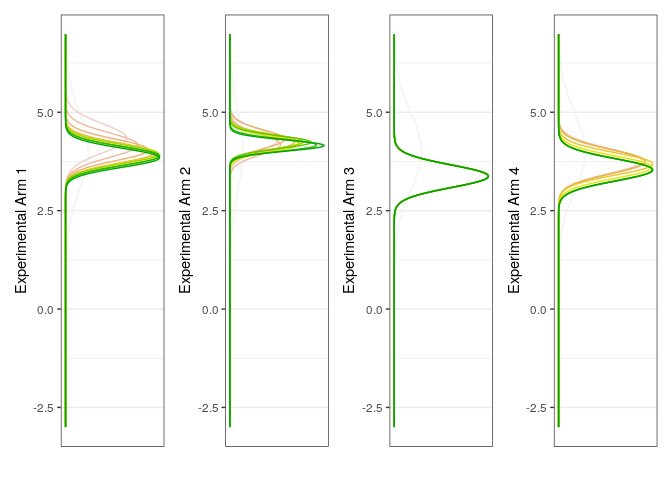
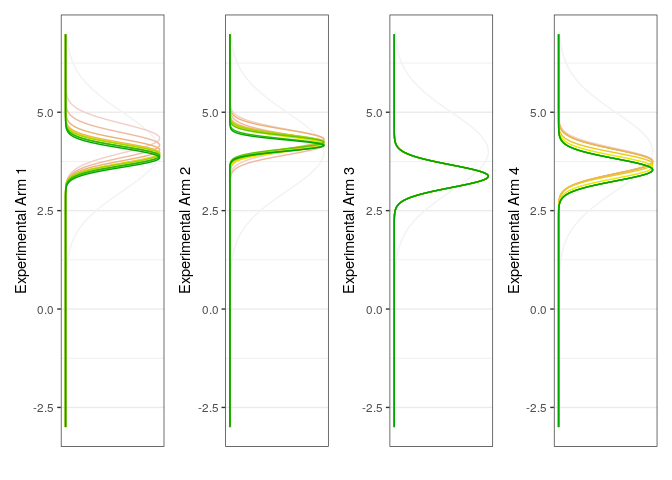
Stage stable rarsim version 0.0.7

Changed region(s): [[0.0938, 0.2188, 0.25, 0.375], [0.3438, 0.2188, 0.5, 0.375], [0.8438, 0.2812, 0.9688, 0.375]]

diff --git a/NEWS.md b/NEWS.md
@@ -1,13 +1,22 @@
+## rarsim 0.0.7
+---------------------
+* Prepare unknown variance update
+    * Remove `prior.prec` and `post.prec` slots for simplicity
+    * Add slots to store degrees-of-freedom (set to Inf when heuristic = TRUE)
+    * Replace Normal distribution with t distribution
+* Update `run.benchmark` method
+    * New `fast` argument to measure p-value at final time step only
+
 ## rarsim 0.0.6
 ---------------------
 * Add `sampler` methods
     * New `sampler.fixed` will allocate patients at a fixed ratio
     * New `sampler.auc` will allocate patients proportional to p(posterior > cutoff)
-* Improvements
+* Prepare unknown variance update
     * Add `prior.alpha` and `prior.beta` slots to anticipate normal-gamma conjugate
-    * (`prior.var` and `prior.prec` save expected values for backwards compatibility)
+    * (`prior.var` and `prior.prec` save marginal values for backwards compatibility)
     * Add `post.alpha` and `post.beta` slots to anticipate normal-gamma conjugate
-    * (`post.var` and `post.prec` save expected values for backwards compatibility)
+    * (`post.var` and `post.prec` save marginal values for backwards compatibility)
     * Add `heuristic` argument to toggle normal-gamma use
 
 ## rarsim 0.0.5
